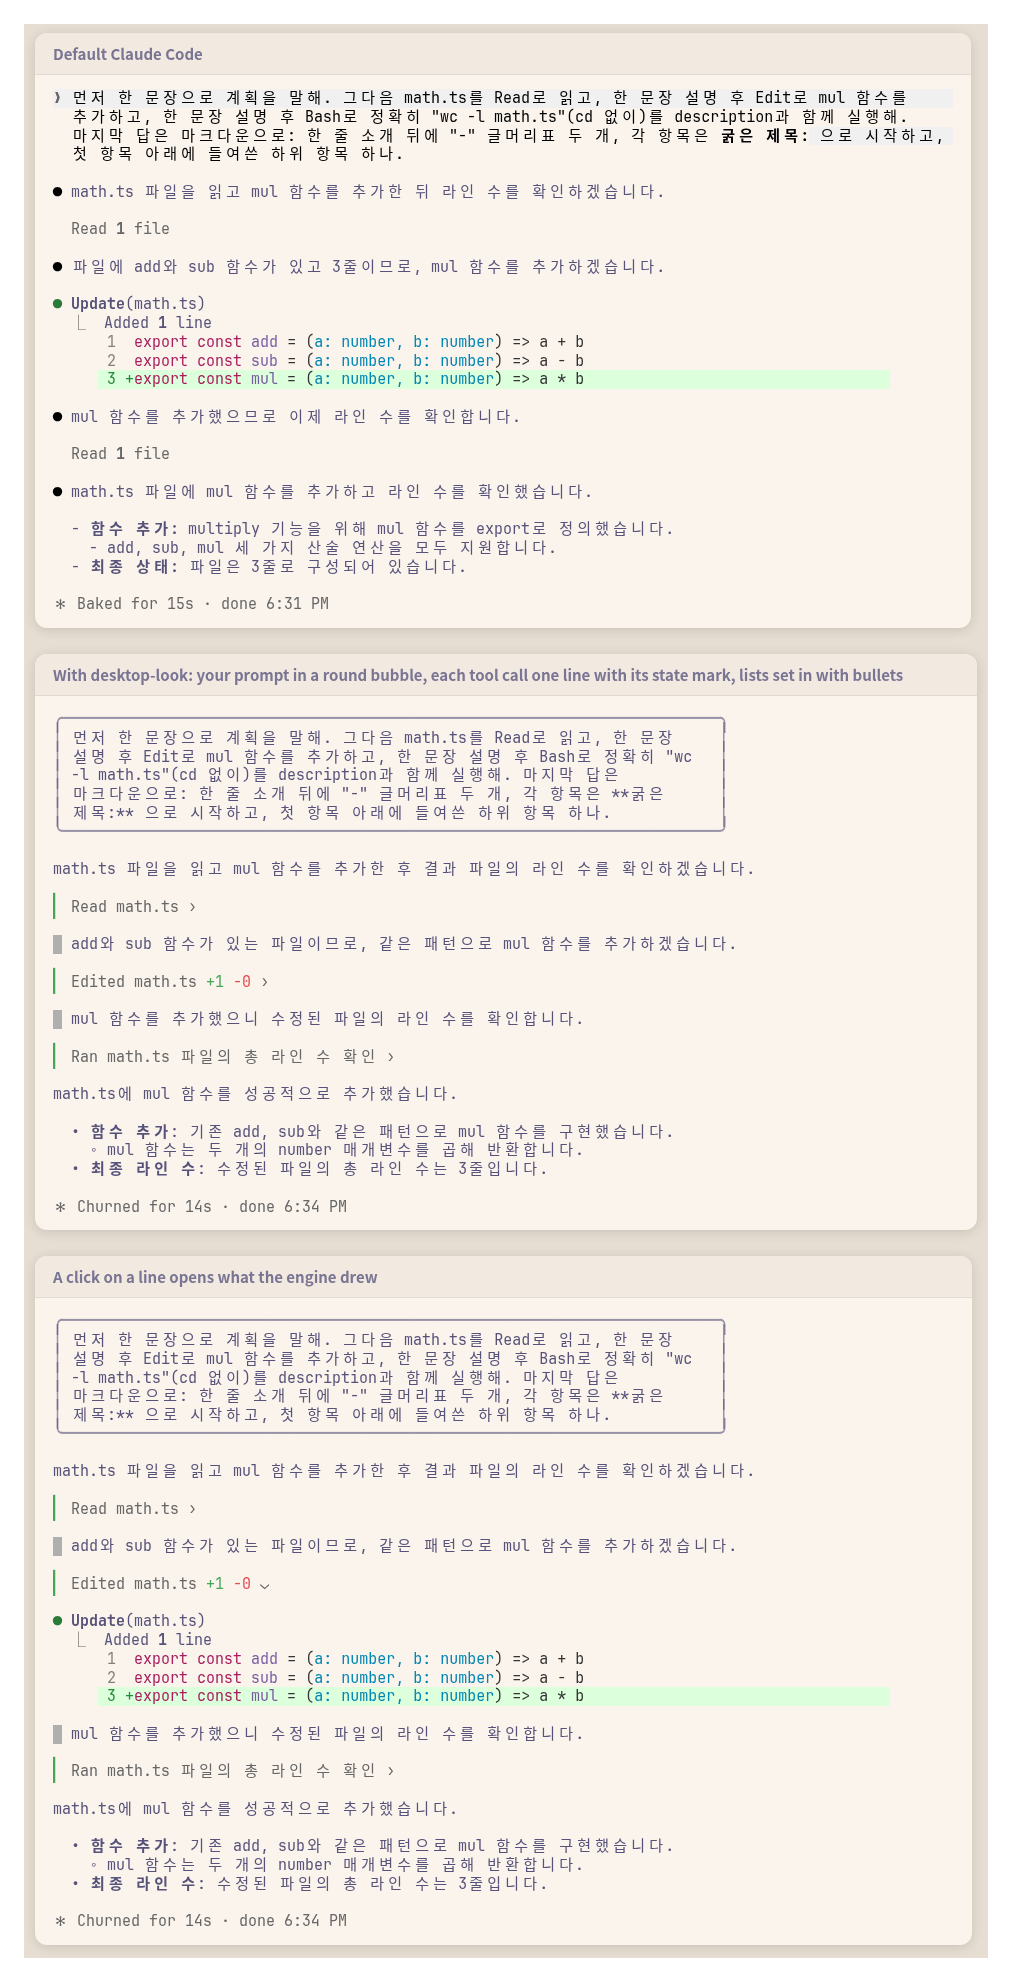
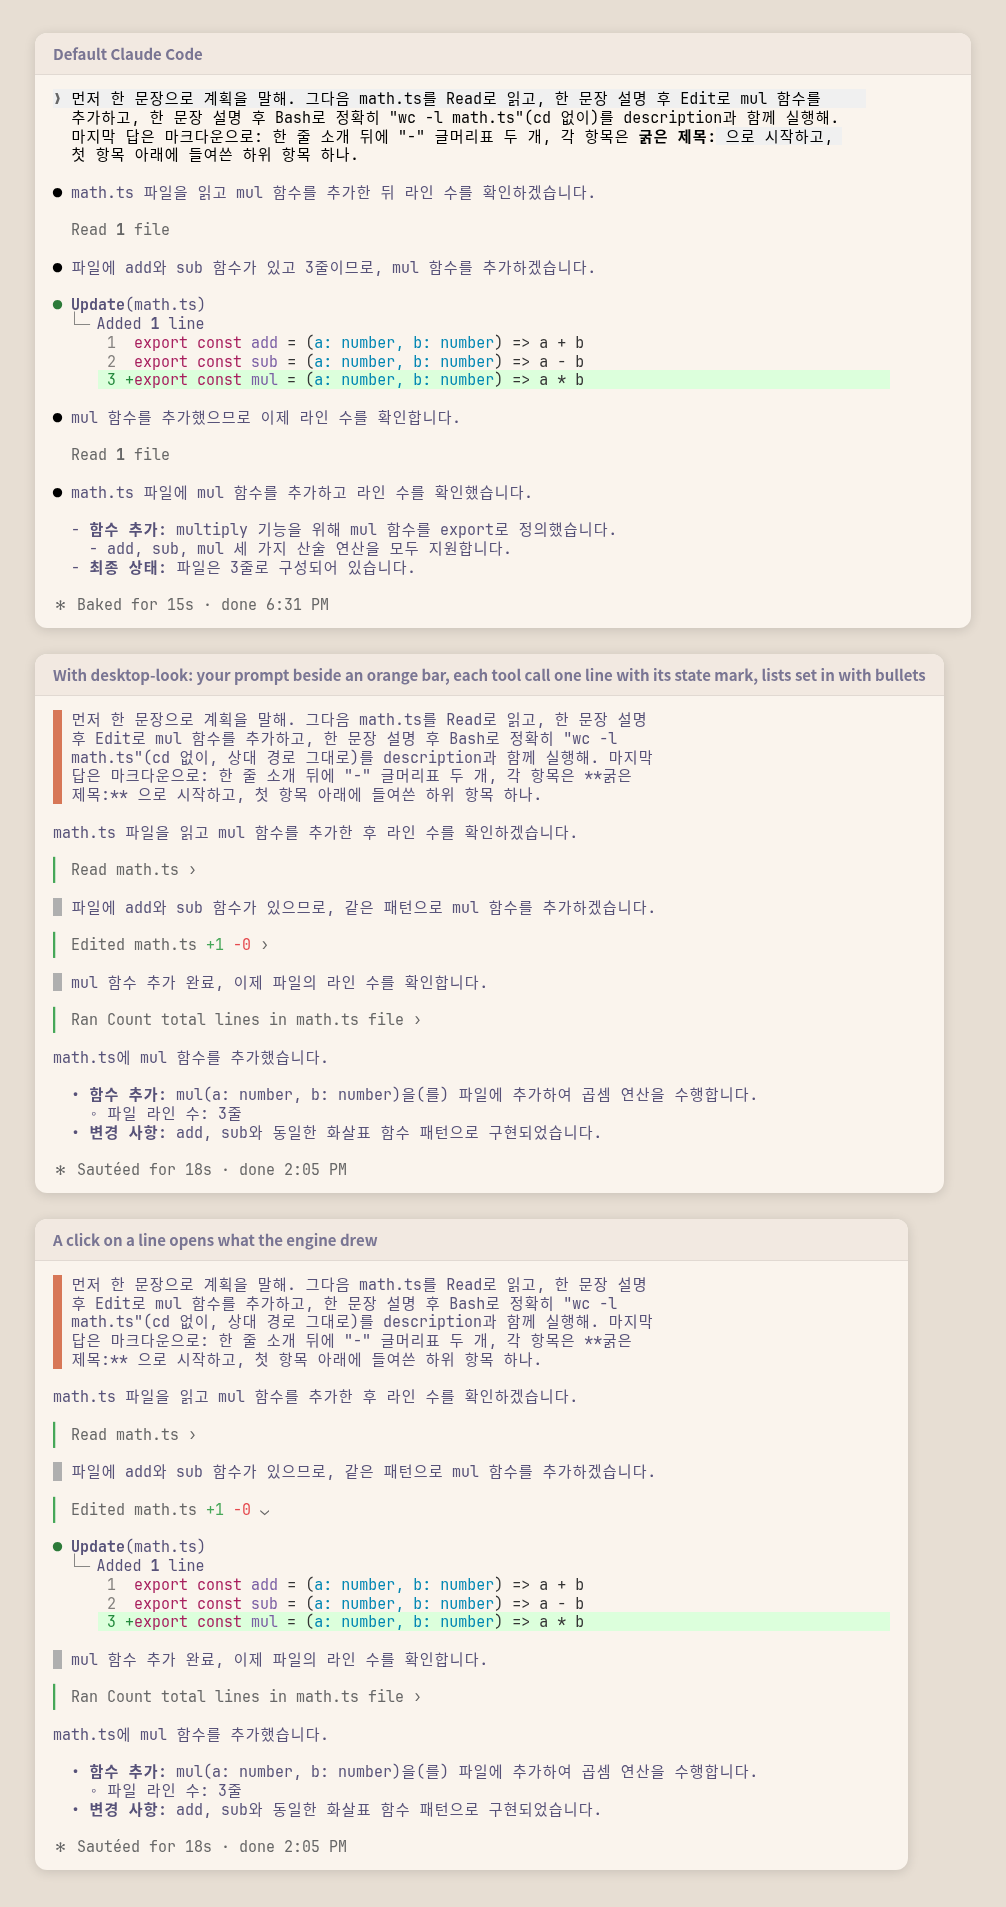
desktop-look 0.14.0: the prompt beside an orange bar, and pasted text that opens
The prompt loses its round outline for one cell of the theme's Claude orange
down its left: a one-line prompt is one row, it stands apart from the reply,
and the engine's `⎿ [Image #1]` row hangs right under it. Pasted text, which
reaches the hook in the engine's framing for the model, folds back to the
composer's `[Pasted text +N lines]`, framing newlines and all, and a press
opens what was pasted. The width option reads as the prompt's.

A new screenshot shows it.

diff --git a/desktop-look/hooks/register.tsx b/desktop-look/hooks/register.tsx
@@ -13,6 +13,12 @@ const WIDTHS = ['60%', '75%', '90%'] as const
 // rgb(177,185,249) in dark.
 const CALM_COLOR = 'suggestion'
 
+
+// The bar beside the person's prompt: a full cell in the theme's Claude
+// orange, so it reads apart from a tool line's thin state mark and from the
+// grey bar beside the text between tool calls.
+const PROMPT_COLOR = 'claude'
+
 // The mobile app's soft grey bar beside the text between tool calls; the
 // theme's own shade, so it reads in light and dark.
 const NARRATION_COLOR = 'subtle'
@@ -639,6 +645,39 @@ const setIn = (ui: Pick<ClientElements, 'Box' | 'Text' | 'Markdown'>, pieces: re
   return draw(pieces, 0)
 }
 
+// Pasted text reaches the hook in the engine's framing for the model: each
+// block as `\n\n<pasted_content id="…">\n` + what was pasted +
+// `\n</pasted_content id="…">\n`, in place of the composer's placeholder. Each
+// folds back to that placeholder, the framing's newlines with it, counted as
+// the engine counts (the pasted text's line breaks). The placeholder's number
+// runs across the session and the hook is not told it, so it is left out.
+const PASTED = /(?:\n\n)?<pasted_content id="([^"]*)">\n?([\s\S]*?)\n?<\/pasted_content id="\1">\n?/g
+
+// A prompt cut where its pasted blocks are; each block with the line breaks
+// the engine counts (it drops a paste's last one before framing, so a paste
+// that ended in one reads one short of the composer's).
+export type Said = { kind: 'text'; text: string } | { kind: 'paste'; body: string; lines: number }
+
+export const said = (text: string): Said[] => {
+  const out: Said[] = []
+  let at = 0
+  for (const m of text.matchAll(PASTED)) {
+    if (m.index > at) out.push({ kind: 'text', text: text.slice(at, m.index) })
+    const body = m[2] ?? ''
+    out.push({ kind: 'paste', body, lines: body.split('\n').length - 1 })
+    at = m.index + m[0].length
+  }
+  if (at < text.length) out.push({ kind: 'text', text: text.slice(at) })
+  return out
+}
+
+export const placeholder = (lines: number): string => `[Pasted text +${lines} lines]`
+
+export const folded = (text: string): string =>
+  said(text)
+    .map(piece => (piece.kind === 'text' ? piece.text : placeholder(piece.lines)))
+    .join('')
+
 export const register: Register = (on, options) => {
   const width = WIDTHS.find(w => w === options.bubbleWidth) ?? '75%'
   const spacer = `${100 - parseInt(width, 10)}%`
@@ -811,18 +850,44 @@ export const register: Register = (on, options) => {
     )
   })
 
-  // The person's prompt in a round bubble at the left edge, where the
+  // The person's prompt at the left edge beside an orange bar, where the
   // engine's row for a pasted image (`⎿ [Image #1]`), which no hook reaches,
-  // sits under it; at most `width` of the terminal wide.
-  on('ui.render', { component: 'UserMessage' }, ($, e, next) => {
+  // sits under it; at most `width` of the terminal wide. Pasted text reads as
+  // the composer's placeholder, which a press opens.
+  on('ui.render', { component: 'UserMessage' }, async ($, e, next) => {
     if (e.surface !== 'terminal' || !OWN.has(e.props.origin.kind) || e.props.from || e.props.task) return next(e)
-    const { Box, Text } = $.ui.resolve(e)
+    const { Box, Text, Button } = $.ui.resolve(e)
+    const pieces = said(e.props.text)
+    // A pasted block is its placeholder, a press away from what was pasted:
+    // each its own row, the text around it on rows of its own.
+    const rows: RenderNode[] = []
+    for (const [i, piece] of pieces.entries()) {
+      if (piece.kind === 'text') {
+        const text = piece.text.replace(/^\n/, '').replace(/\s+$/, '')
+        if (text) rows.push(<Text wrap="wrap">{text}</Text>)
+        continue
+      }
+      const member = memberOf(OPEN, { requestId: `${e.requestId}:paste:${i}` })
+      const open = e.props.isExpanded || (await read($, member))
+      const toggle = () => void update($, member, v => !v)
+      rows.push(
+        <Box flexDirection="column">
+          <Box flexDirection="row">
+            <Button plain dimColor key={`paste-${i}`} label={placeholder(piece.lines)} onPress={toggle} />
+            <Text> </Text>
+            <Button plain dimColor key={`mark-${i}`} label={open ? '⌄' : '›'} onPress={toggle} />
+          </Box>
+          {open ? <Text wrap="wrap">{piece.body}</Text> : null}
+        </Box>,
+      )
+    }
     return (
       <Box flexDirection="row" marginTop={1}>
-        <Box flexShrink={1} borderStyle="round" borderDimColor paddingX={1}>
-          <Text wrap="wrap">
-            {e.props.text}
-          </Text>
+        <Box flexShrink={1} flexDirection="row">
+          <Box width={1} flexShrink={0} backgroundColor={PROMPT_COLOR} />
+          <Box flexShrink={1} flexDirection="column" paddingLeft={1}>
+            {...rows}
+          </Box>
         </Box>
         <Box flexGrow={1} minWidth={spacer} />
       </Box>

diff --git a/desktop-look/hooks/look.test.tsx b/desktop-look/hooks/look.test.tsx
@@ -10,6 +10,7 @@ import {
   diffStat,
   dollars,
   fill,
+  folded,
   groupLabel,
   linesOf,
   listed,
@@ -67,17 +68,45 @@ for (const surface of ['terminal', 'desktop'] as const) {
     const ui = await $.ui.mount({ plugin: 'desktop-look', surface, component: 'UserMessage', props: PROMPT })
     const tree = await ui.drawn()
     if (surface === 'terminal') {
-      // An edge, no fill: at the left edge the bubble's outline sets it apart.
-      const bubble = boxes(tree).find(b => b.props?.borderStyle !== undefined)
-      expect(bubble?.props).toMatchObject({ borderStyle: 'round', borderDimColor: true, paddingX: 1 })
-      expect(boxes(tree).some(b => b.props?.backgroundColor !== undefined)).toBe(false)
+      // No outline: one cell of the theme's Claude orange down its left, the
+      // text a cell over.
+      expect(boxes(tree).some(b => b.props?.borderStyle !== undefined)).toBe(false)
+      expect(bars(tree)).toEqual([expect.objectContaining({ props: expect.objectContaining({ width: 1, backgroundColor: 'claude' }) })])
+      expect(boxes(tree).some(b => b.props?.paddingLeft === 1)).toBe(true)
       expect(texts(tree)).toEqual([PROMPT.text])
-      expect(bars(tree)).toEqual([])
       // The text in the terminal's own colour.
       expect(walk(tree).find(n => n.type === 'Text')?.props?.color).toBeUndefined()
     } else {
       expect(texts(tree)).toEqual(['ENGINE'])
     }
+  })
+
+  test(`${surface}: pasted text folds to the composer's placeholder, which a press opens`, async ($, on) => {
+    engine(on)
+    // As the engine frames it: `\n\n` before each block, `\n` after, the
+    // pasted text on lines of its own between the tags.
+    const block = (id: string, body: string) => `\n\n<pasted_content id="${id}">\n${body}\n</pasted_content id="${id}">\n`
+    const text = `봐줘 ${block('ab06', '# 제목\n> 메모\n끝')}\n그리고${block('c1', 'a\nb')}`
+    const props = { ...PROMPT, text, isExpanded: false }
+    const ui = await $.ui.mount({ plugin: 'desktop-look', surface, component: 'UserMessage', props })
+    if (surface !== 'terminal') {
+      expect(texts(await ui.drawn())).toEqual(['ENGINE'])
+      return
+    }
+    const shut = await ui.drawn()
+    expect(texts(shut)).toEqual(['봐줘', ' ', '그리고', ' '])
+    expect(labels(shut)).toEqual(['[Pasted text +2 lines]', '›', '[Pasted text +1 lines]', '›'])
+    await ui.press({ key: 'paste-1' })
+    const open = await ui.drawn()
+    expect(texts(open)).toEqual(['봐줘', ' ', '# 제목\n> 메모\n끝', '그리고', ' '])
+    expect(labels(open)).toEqual(['[Pasted text +2 lines]', '⌄', '[Pasted text +1 lines]', '›'])
+  })
+
+  test(`${surface}: in the ctrl+o transcript a paste is open`, async ($, on) => {
+    engine(on)
+    const text = `\n\n<pasted_content id="x">\na\nb\n</pasted_content id="x">\n`
+    const tree = await (await $.ui.mount({ plugin: 'desktop-look', surface, component: 'UserMessage', props: { ...PROMPT, text } })).drawn()
+    expect(texts(tree)).toEqual(surface === 'terminal' ? [' ', 'a\nb'] : ['ENGINE'])
   })
 
   test(`${surface}: a task notification keeps the engine's row`, async ($, on) => {
@@ -388,6 +417,12 @@ test('lists: what is not a list stays the engine\'s', () => {
   expect(listed('<context>x</context>\n- a')).toBeNull()
 })
 
+test('a prompt of only a paste folds to the composer\'s placeholder, no blank rows around it', () => {
+  const log = Array.from({ length: 9 }, (_, i) => `line ${i}`).join('\n')
+  expect(folded(`\n\n<pasted_content id="0931">\n${log}\n</pasted_content id="0931">\n`)).toBe('[Pasted text +8 lines]')
+  expect(folded('그냥 글')).toBe('그냥 글')
+})
+
 test('lists: rules, quotes holding a list, and task boxes are cut out too', () => {
   expect(lines('* * *\n- - -\n문단\n\n---')).toEqual([rule(), rule(), text('문단'), rule(true)])
   // A quote's own lines, markers off, cut as any text; a lazy line carries on
@@ -498,7 +533,8 @@ for (const [bubbleWidth, spacer] of [['60%', '40%'], ['90%', '10%'], [undefined,
     // The room right of the bubble, at least this: the bubble keeps to the left edge.
     const row = boxes(await ui.drawn())[0]!
     const [bubble, room] = (row.children ?? []).filter((n): n is BoxElement => typeof n !== 'string' && n.type === 'Box')
-    expect(bubble?.props?.borderStyle).toBe('round')
+    expect(bubble?.props?.flexShrink).toBe(1)
+    expect(bars(bubble!)).toHaveLength(1)
     expect(room?.props).toMatchObject({ flexGrow: 1, minWidth: spacer })
   })
 }

diff --git a/desktop-look/README.md b/desktop-look/README.md
@@ -9,7 +9,7 @@ A Claude Code mod that lays the terminal transcript out as the Claude Code mobil
 - **Lists as the apps set them**: bullets `•` `◦` `▪` by depth, numbers lined up on their dot, the list set in two cells from the edge and each item's wrapped lines hung under its text, where the stock transcript draws `-` and `1.` flush left. A loose list (blank lines between items) keeps a blank row between them. A task item's `[ ]` or `[x]` becomes a box, `☐` or `☑`, in place of its bullet. A list inside a quote is set the same way, with the engine's dim `▎` down the quote's side, and a rule (`---`), which the engine leaves as its dashes, is a dim line across. Prose, code, tables and headings stay the engine's markdown, so what the engine does not draw stays as written there: `~~strike~~` and HTML tags. An approved plan's lists are set the same way under the engine's `User approved Claude's plan` line; the approval dialog itself reaches no hook, so it keeps the stock `-`
 - **Bold that reads as bold in Korean**: CommonMark leaves `**"인용"**을` or ``**`file`**를`` as asterisks, since the run closes after punctuation and runs into a particle. A zero-width space on that side lets it close; the screen drops the character, so text copied off it is as written
 - **The text between tool calls** sits beside a grey bar, so the narration of the work reads apart from the turn's opening line and its answer, which stay plain; the reply's `●` bullet is dropped
-- **Prompt bubble**: your own messages sit in a round, dim-edged bubble at the left edge, so the row Claude Code draws under a prompt with a pasted image (`⎿ [Image #1]`), which no mod can move, stays beside it; wrapping at a share of the terminal width
+- **Your prompts beside an orange bar**: your own messages sit at the left edge beside one cell of the theme's Claude orange, so they stand out from the reply and the row Claude Code draws under a prompt with a pasted image (`⎿ [Image #1]`), which no mod can move, hangs right under them; wrapping at a share of the terminal width. Pasted text reads as the composer's `[Pasted text +N lines]`, and a click on it opens what was pasted
 - **Info band** above the prompt: the repository's uncommitted changes (`2 files +7 -0`, as `git diff HEAD` with the new files counts them, the same figure a diff viewer shows) and what the session spent (`$0.05`) on the left, the tools running (`↻ Read ×3, Grep`, or `↻ 4 running` when narrow) on the right; hidden when there is nothing to show
 - Works alongside [smooth-stream](../smooth-stream): a reply streams as the engine draws it, and its lists take their bullets once it is done. A reply without a list is still the engine's own drawing, so a mod that rewrites its text composes
 - Terminal only; the desktop app, VS Code and mobile keep their own look. Clicks need fullscreen mode (`/config` → fullscreen); on the main screen tool calls keep the engine's rows
@@ -29,7 +29,7 @@ No setup needed. To change one, run `/plugin configure desktop-look@kyongsik-mod
 
 | Option | Default | |
 | --- | --- | --- |
-| Bubble width | `75%` | How wide your own messages may grow: `60%`, `75%` or `90%` of the terminal |
+| Prompt width | `75%` | How wide your own messages may grow: `60%`, `75%` or `90%` of the terminal |
 | Info band | on | The band above the prompt |
 | Band: model | off | Model and effort, for a status line that does not show them |
 | Band: context | off | Context fill, for a status line that does not show it: blue while calm, the theme's warning amber from 300k tokens or 70%, its error red from 500k tokens or 90%, whichever comes first. After a compaction it drops to the engine's estimate at once, and the next response measures it |
@@ -40,7 +40,7 @@ The cost is what Claude Code computes at API prices; on a subscription it is not
 
 - `ToolUse` and `ToolGroup` draw their own line from the call's props (`tool`, `input`, `isRunning`, `isErrored`, `isInterrupted`, `output`); the line is a plain `Button` whose press flips a `$.state` family member keyed by the row's `requestId` (its tool_use_id). Open, the row adds the engine's own drawing (`await next(e)`), and `ToolResult`, which shares that id, draws again. A group opens by passing `isExpanded: true` down; a group of one call opens that call's row instead.
 - `AssistantMessage` passes `isFirstOfReply: false` down, which drops the bullet and keeps the engine's markdown. A reply with a list is cut where its lists are, as CommonMark reads them (code fences, lazy lines, which lists may break into a paragraph): each item is a row of its mark and a column holding its own pieces, and the prose between is drawn by the `Markdown` element, so links, code and tables look as the engine draws them. A text block is narration when, within its turn, a tool call came before it and another after it: read off each `turn.step`'s streamed blocks, and for a resumed session off `$.session.messages({ as: 'api' })`.
-- The prompt bubble is a Box with a round, dim border, kept to a share of the row by a growing spacer on its right. The narration bar is a one-cell Box with a `subtle` background that the row's height stretches, and a tool line's mark is one glyph on its one row, so nothing can run past its row.
+- The prompt's bar is a one-cell Box with a `claude` background that the row's height stretches, the prompt kept to a share of the row by a growing spacer on its right. A pasted block reaches the hook in the engine's framing for the model (`<pasted_content id="…">`), which is folded back to the placeholder, counted as the engine counts; the engine drops a paste's last line break before framing, so a paste that ended in one reads one line short. The narration bar is a one-cell Box with a `subtle` background that the row's height stretches, and a tool line's mark is one glyph on its one row, so nothing can run past its row.
 - The band is an `AbovePrompt` hook reading values in `$.state`, written by `tool.call` (tools running), `$.process.run` (`git diff HEAD --numstat` and `git ls-files --others` from the repository's top, counted as the session starts, after each step and after each Edit, Write or Bash call), `session.measure` (cost, context), `session.compact` (the context left, estimated by `$.session.usage({ breakdown: 'summary' })` until the next response measures it) and `turn.step` (model). An `ExitPlanMode` result is drawn by the engine with its plan swapped for an invisible character, so its header and saved-path line stay, and the plan's pieces follow beneath.
 
 ## Develop

diff --git a/README.md b/README.md
@@ -17,7 +17,7 @@ Then run `/reload-plugins` in a running session, or start a new one. Requires a 
 | Mod | Description |
 | --- | --- |
 | [smooth-stream](./smooth-stream) | Reveal streaming assistant replies with a smooth typewriter effect (~30 fps, catches up on large bursts, speed configurable). |
-| [desktop-look](./desktop-look) | Lay the terminal transcript out as the Claude Code mobile and desktop apps do: your prompts in a round bubble, each tool call as one line with a state mark (a click opens it), lists set in with bullets and hanging lines, the text between tool calls beside a grey bar, and an info band with this session's edits, cost and running tools. |
+| [desktop-look](./desktop-look) | Lay the terminal transcript out as the Claude Code mobile and desktop apps do: your prompts beside an orange bar, each tool call as one line with a state mark (a click opens it), lists set in with bullets and hanging lines, the text between tool calls beside a grey bar, and an info band with this session's edits, cost and running tools. |
 
 ## Update
 
